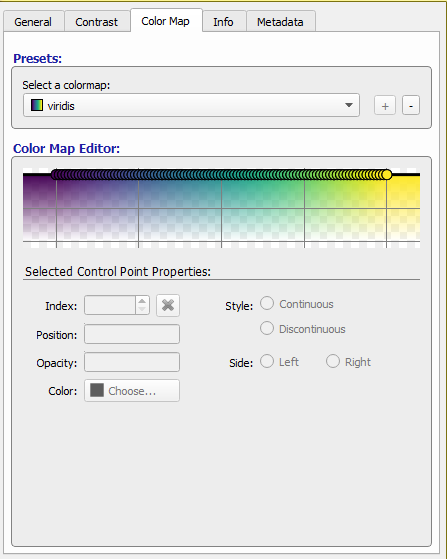
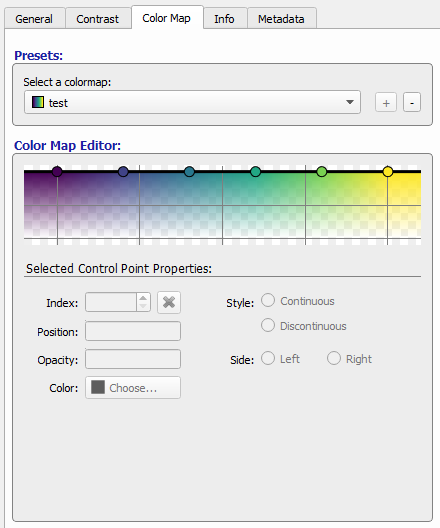
added control point option

Changed region(s): [[0.0, 0.0, 1.0, 1.0]]

diff --git a/ColorMapWriter.py b/ColorMapWriter.py
@@ -5,28 +5,33 @@ import xml.etree.ElementTree as xml
 import numpy as np
 
 class ColorMapWriter(object):
-    def __init__(self, lookuptable, filename):
 
+    ctrl_pt_number = None
+    lookuptable = None
+    filename = None
+
+    def __init__(self, lookuptable, filename, ctrl_pt_num = 10):
+    
         if not isinstance(lookuptable, np.ndarray) or lookuptable.shape[1] != 4:
             print ("Invalid Lookup Table Format!")
             return
 
-        root = xml.Element("registry")
-        num_tbl_pts = int(lookuptable.shape[0])
+        self.ctrl_pt_number = ctrl_pt_num
+        self.lookuptable = lookuptable
+        self.filename = filename
+
+    def createLookupTable(self):
+        if not isinstance(self.lookuptable, np.ndarray) or self.lookuptable.shape[1] != 4:
+            print ("Invalid Lookup Table Format!")
+            return
+        
+        self.root = xml.Element("registry")
+        num_tbl_pts = int(self.lookuptable.shape[0])
 
         range_nudge = 1
         clr_range = range(0, num_tbl_pts, range_nudge)
         clr_range.append(num_tbl_pts-1)
 
-        num_ctrlpts_ele = xml.Element("entry")
-        num_ctrlpts_ele.set('key','NumberOfControlPoints')
-        num_ctrlpts_ele.set('value', '{:d}'.format(len(clr_range)))
-        preset_ele = xml.Element("entry")
-        preset_ele.set('key', 'Preset')
-        preset_ele.set('value', 'Custom')
-
-        root.append(num_ctrlpts_ele)
-        root.append(preset_ele)
 
         rgba = [0, 0, 0, 0]
         rgba_vals = list()
@@ -35,28 +40,44 @@ class ColorMapWriter(object):
         clr_range.append(num_tbl_pts-1)
 
         for x in clr_range:
-            rgba = lookuptable[x,:]
+            rgba = self.lookuptable[x,:]
             rgba_vals.extend([[int(rgba[0]*255.0),int(rgba[1]*255.0),int(rgba[2]*255.0), int(rgba[3]*255.0)]])
 
         st_ind, end_ind = clr_range[0], clr_range[::-1][0]
 
-        num_ctrl_pts = len(range(0, num_tbl_pts, range_nudge))
+        #num_ctrl_pts = len(range(0, num_tbl_pts, range_nudge))
+        num_ctrl_pts = np.arange(0,self.lookuptable.shape[0]+1, (self.lookuptable.shape[0]-1)/(self.ctrl_pt_number)).astype(np.int)
+        
+        st_ind, end_ind = num_ctrl_pts[0], num_ctrl_pts[::-1][0]
 
-        for i,ct in enumerate(clr_range):
+        self.writeHeader()
+
+        
+        for ct,i in enumerate(num_ctrl_pts):
             if ct == st_ind or ct == end_ind:
-                ctrl_pt = self.create_control_point(i, rgba_vals[i], num_ctrl_pts, True)
+                ctrl_pt = self.create_control_point(ct, rgba_vals[i], self.ctrl_pt_number, True)
             else:
-                ctrl_pt = self.create_control_point(i, rgba_vals[i], num_ctrl_pts, False)
-            root.append(ctrl_pt)
+                ctrl_pt = self.create_control_point(ct, rgba_vals[i], self.ctrl_pt_number, False)
+            self.root.append(ctrl_pt)
 
-        self.indent(root)
-        tree = xml.ElementTree(root)
+        self.indent(self.root)
+        tree = xml.ElementTree(self.root)
 
-        with open(filename, 'w') as f:
+        with open(self.filename, 'w') as f:
             declaration = '<?xml version=\'1.0\' encoding=\'utf-8\'?>\n<!DOCTYPE registry [\n<!ELEMENT registry (entry*,folder*)>\n<!ELEMENT folder (entry*,folder*)>\n<!ELEMENT entry EMPTY>\n<!ATTLIST folder key CDATA #REQUIRED>\n<!ATTLIST entry key CDATA #REQUIRED>\n<!ATTLIST entry value CDATA #REQUIRED>\n]>\n'
             f.write(declaration)
             tree.write(f, 'utf-8')
 
+    def writeHeader(self):
+        num_ctrlpts_ele = xml.Element("entry")
+        num_ctrlpts_ele.set('key','NumberOfControlPoints')
+        num_ctrlpts_ele.set('value', '{:d}'.format(self.ctrl_pt_number+1))
+        preset_ele = xml.Element("entry")
+        preset_ele.set('key', 'Preset')
+        preset_ele.set('value', 'Custom')
+        self.root.append(num_ctrlpts_ele)
+        self.root.append(preset_ele)
+            
     def create_control_point(self, pos, rgba_vals, numcols, type_val = True):
         ctrl_pt_ele = xml.Element('folder')
         ctrl_pt_ele.set('key', 'ControlPoint[{}]'.format(str(pos).zfill(4)))

diff --git a/README.md b/README.md
@@ -1,14 +1,17 @@
 # colormap_to_ITKSNAP
 A simple script to convert MPL cmaps to an XML format readable by ITK-SNAP
 
-Simply use the ColorMapWriter to take any available color map in ITK-SNAP or a [256,4] RGBA array in numpy and this script will write out a valid XML which can be used in ITK-SNAP
+Simply use the ColorMapWriter to take any available color map in ITK-SNAP or a [256,4] RGBA array in numpy and this script will write out a valid XML which can be used in ITK-SNAP.
+
+Simply pass a 4xN colormap, the path to the XML file and the number of control points you would like into the ColorMapWriter and then run the 'createLookupTable' method.
 
 Example code
 
 import ColorMapWriter
 import matplotlib.cm as cmap
 mpl_map = cmap.viridis(np.arange(256))
-ColorMapWriter.ColorMapWriter(mpl_map, 'viridis.xml')
+c = ColorMapWriter.ColorMapWriter(mpl_map, 'viridis.xml', 5)
+c.createLookupTable()
 
 As shown in ITK-SNAP
 ![alt tag](https://raw.github.com/gordon-n-stevenson/colormap_to_ITKSNAP/itksnap_3dview.png)
